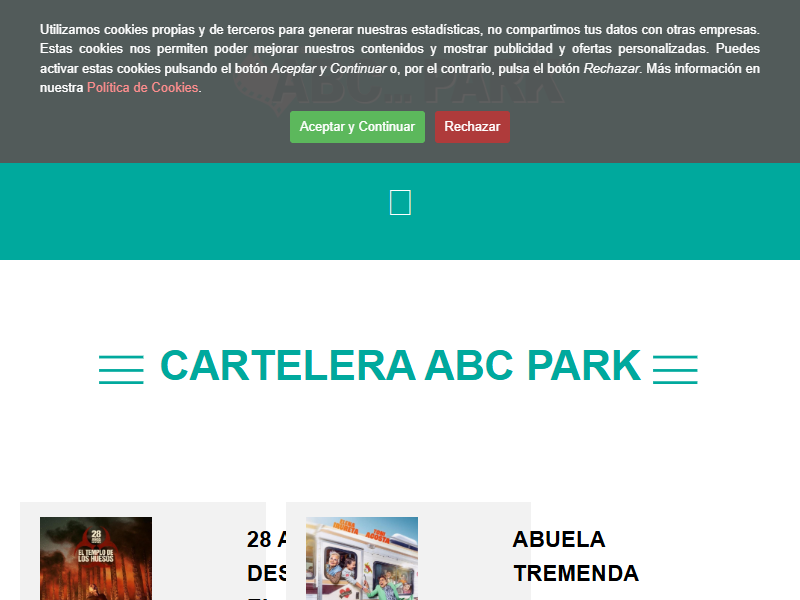
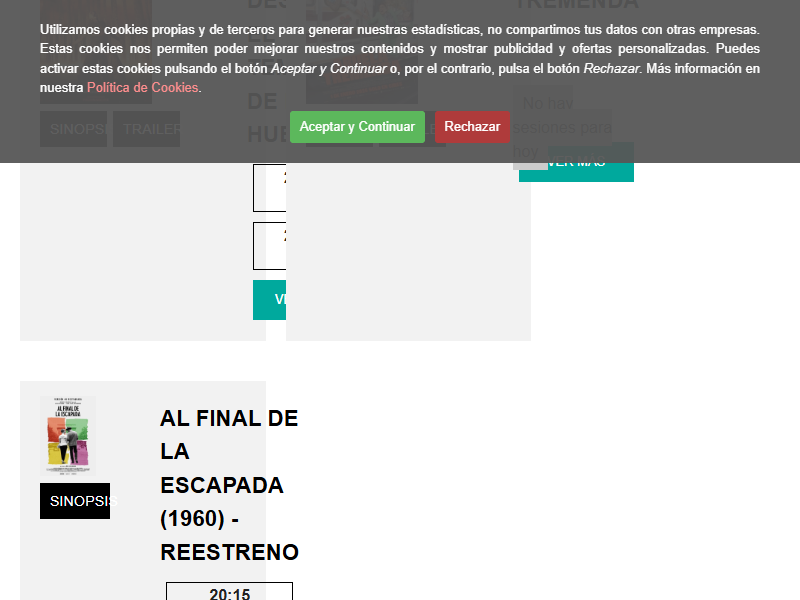
Titles and pages url recollected

Changed region(s): [[0.0, 0.27, 1.0, 0.54], [0.0312, 0.57, 0.875, 1.0], [0.625, 0.87, 0.8125, 0.99]]

diff --git a/index.js b/index.js
@@ -13,10 +13,18 @@ async function ScrapeData(url) {
 
         return Array.from(billboards).map((billboard) => {
             const title= billboard.querySelector(".ver-ficha").innerText.trim();
-            const date_url_id= billboard.querySelector(".mas-ses.ver-ficha").getAttribute("id-ficha");
+            const date_url_id= billboard.querySelector(".cartelera-imagen a").getAttribute("href");
             return ({title, date_url_id});
         })
     })
+
+
+
+
+    await page.click(".mas-ses.ver-ficha");
+    //const clickedData= await page.$eval(".ficha-sinopsis", element => element.textContent);
+
+    //await page.$eval(".ficha-sinopsis", element => element.textContent);
 
     browser.close();
 
